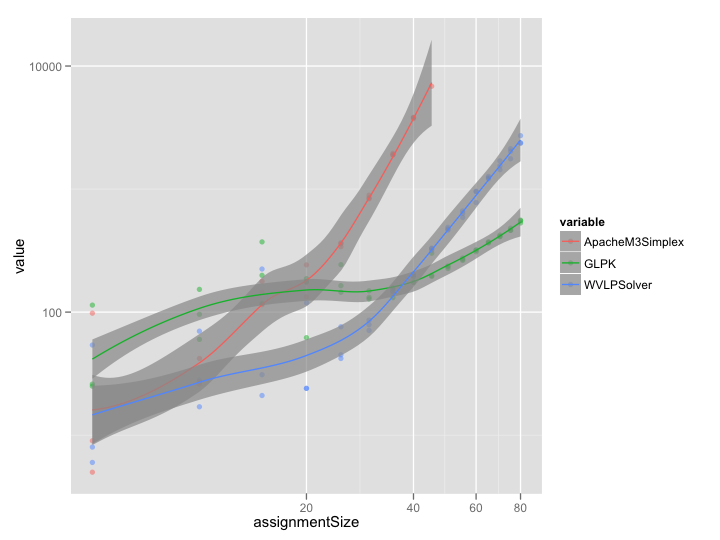
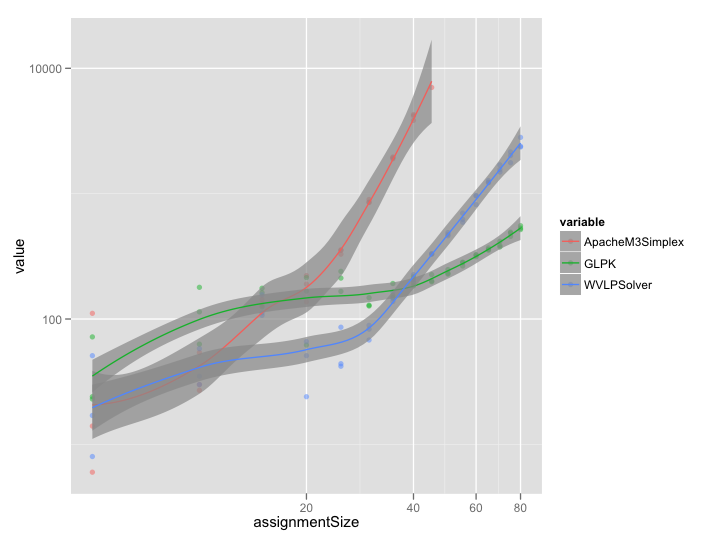
put row scaling back in

diff --git a/src/com/winvector/lp/impl/LPSolverImpl.java b/src/com/winvector/lp/impl/LPSolverImpl.java
@@ -411,7 +411,7 @@ abstract class LPSolverImpl implements LPSolver {
 			}
 			return new LPSoln(x, b);
 		}
-		final LPEQProb prob;
+		LPEQProb prob;
 		// select out irredundant rows
 		if (rb.length != origProb.A.rows) {
 			final ColumnMatrix nA = origProb.A.extractRows(rb);
@@ -437,37 +437,34 @@ abstract class LPSolverImpl implements LPSolver {
 			}
 			return new LPSoln(x, b);
 		}
-		// TODO: think of rescaling
-//		// re-scale
-//		final double scaleRange = 10.0;
-//		for(int i=0;i<prob.A.rows;++i) {
-//			double sumAbs = Math.abs(prob.b[i]);
-//			for(int j=0;j<prob.A.cols;++j) {
-//				sumAbs += Math.abs(prob.A.get(i, j));
-//			}
-//			if((sumAbs>0)&&((sumAbs>=scaleRange*(prob.A.cols+1.0))||(sumAbs<=(prob.A.cols+1.0)/scaleRange))) {
-//				final double scale = (prob.A.cols+1.0)/sumAbs;
-//				for(int j=0;j<prob.A.cols;++j) {
-//					final double aij = prob.A.get(i, j);
-//					if(aij!=0) {
-//						prob.A.set(i,j,aij*scale);
-//					}
-//				}
-//				prob.b[i] *= scale;
-//			}
-//		}
-//		{
-//			double sumAbs = 0.0;
-//			for(int j=0;j<prob.c.length;++j) {
-//				sumAbs += Math.abs(prob.c[j]);
-//			}
-//			if((sumAbs>0)&&((sumAbs>=scaleRange*prob.c.length)||(sumAbs<=prob.c.length/scaleRange))) {
-//				final double scale = prob.c.length/sumAbs;
-//				for(int j=0;j<prob.c.length;++j) {
-//					prob.c[j] *= scale;
-//				}
-//			}
-//		}
+		// re-scale
+		final double scaleRange = 10.0;
+		{
+			final double[] rowTots = prob.A.sumAbsRowValues();
+			final double[] scale = new double[rowTots.length];
+			for(int i=0;i<prob.b.length;++i) {
+				final double sumAbs = rowTots[i] + Math.abs(prob.b[i]);
+				if((sumAbs>0)&&((sumAbs>=scaleRange*(prob.A.cols+1.0))||(sumAbs<=(prob.A.cols+1.0)/scaleRange))) {
+					scale[i] = (prob.A.cols+1.0)/sumAbs;
+				} else {
+					scale[i] = 1.0;
+				}
+				prob.b[i] *= scale[i];
+			}
+			prob = new LPEQProb(prob.A.rescaleRows(scale), prob.b, prob.c);
+		}
+		{
+			double sumAbs = 0.0;
+			for(int j=0;j<prob.c.length;++j) {
+				sumAbs += Math.abs(prob.c[j]);
+			}
+			if((sumAbs>0)&&((sumAbs>=scaleRange*prob.c.length)||(sumAbs<=prob.c.length/scaleRange))) {
+				final double scale = prob.c.length/sumAbs;
+				for(int j=0;j<prob.c.length;++j) {
+					prob.c[j] *= scale;
+				}
+			}
+		}
 		// work on basis
 		int[] basis0 = null;
 		if ((basis_in != null) && (basis_in.length == prob.A.rows)) {

diff --git a/src/com/winvector/sparse/ColumnMatrix.java b/src/com/winvector/sparse/ColumnMatrix.java
@@ -155,8 +155,30 @@ public final class ColumnMatrix implements Serializable {
 		return r;
 	}
 	
+	public double[] sumAbsRowValues() {
+		final double[] r = new double[rows];
+		for(int j=0;j<cols;++j) {
+			final SparseVec col = columns[j];
+			for(int ii=0;ii<col.indices.length;++ii) {
+				final int i = col.indices[ii];
+				final double aij = col.values[ii];
+				r[i] += Math.abs(aij);
+			}
+		}
+		return r;
+	}
+	
 	public ColumnMatrix extractRows(final int[] rb) {
 		// TODO better implementation
 		return new ColumnMatrix(matrixCopy().extractRows(rb,ColtMatrix.factory));
+	}
+
+	public ColumnMatrix rescaleRows(double[] scale) {
+		final ColumnMatrix r = new ColumnMatrix(rows,cols);
+		for(int j=0;j<cols;++j) {
+			r.columns[j] = new SparseVec(columns[j],scale);
+		}
+		// TODO Auto-generated method stub
+		return r;
 	}
 }

diff --git a/src/com/winvector/sparse/SparseVec.java b/src/com/winvector/sparse/SparseVec.java
@@ -38,6 +38,21 @@ public final class SparseVec implements Serializable {
 		}
 	}
 	
+	SparseVec(final SparseVec o, final double[] scale) {
+		dim = o.dim;
+		indices = new int[o.indices.length];
+		values = new double[indices.length];
+		for(int ii=0;ii<indices.length;++ii) {
+			final int i = o.indices[ii];
+			indices[ii] = i;
+			if(null==scale) {
+				values[ii] = o.values[ii];
+			} else {
+				values[ii] = o.values[ii]*scale[i];
+			}
+		}
+	}
+	
 	public double dot(final double[] x) {
 		if(x.length!=dim) {
 			throw new IllegalArgumentException();
